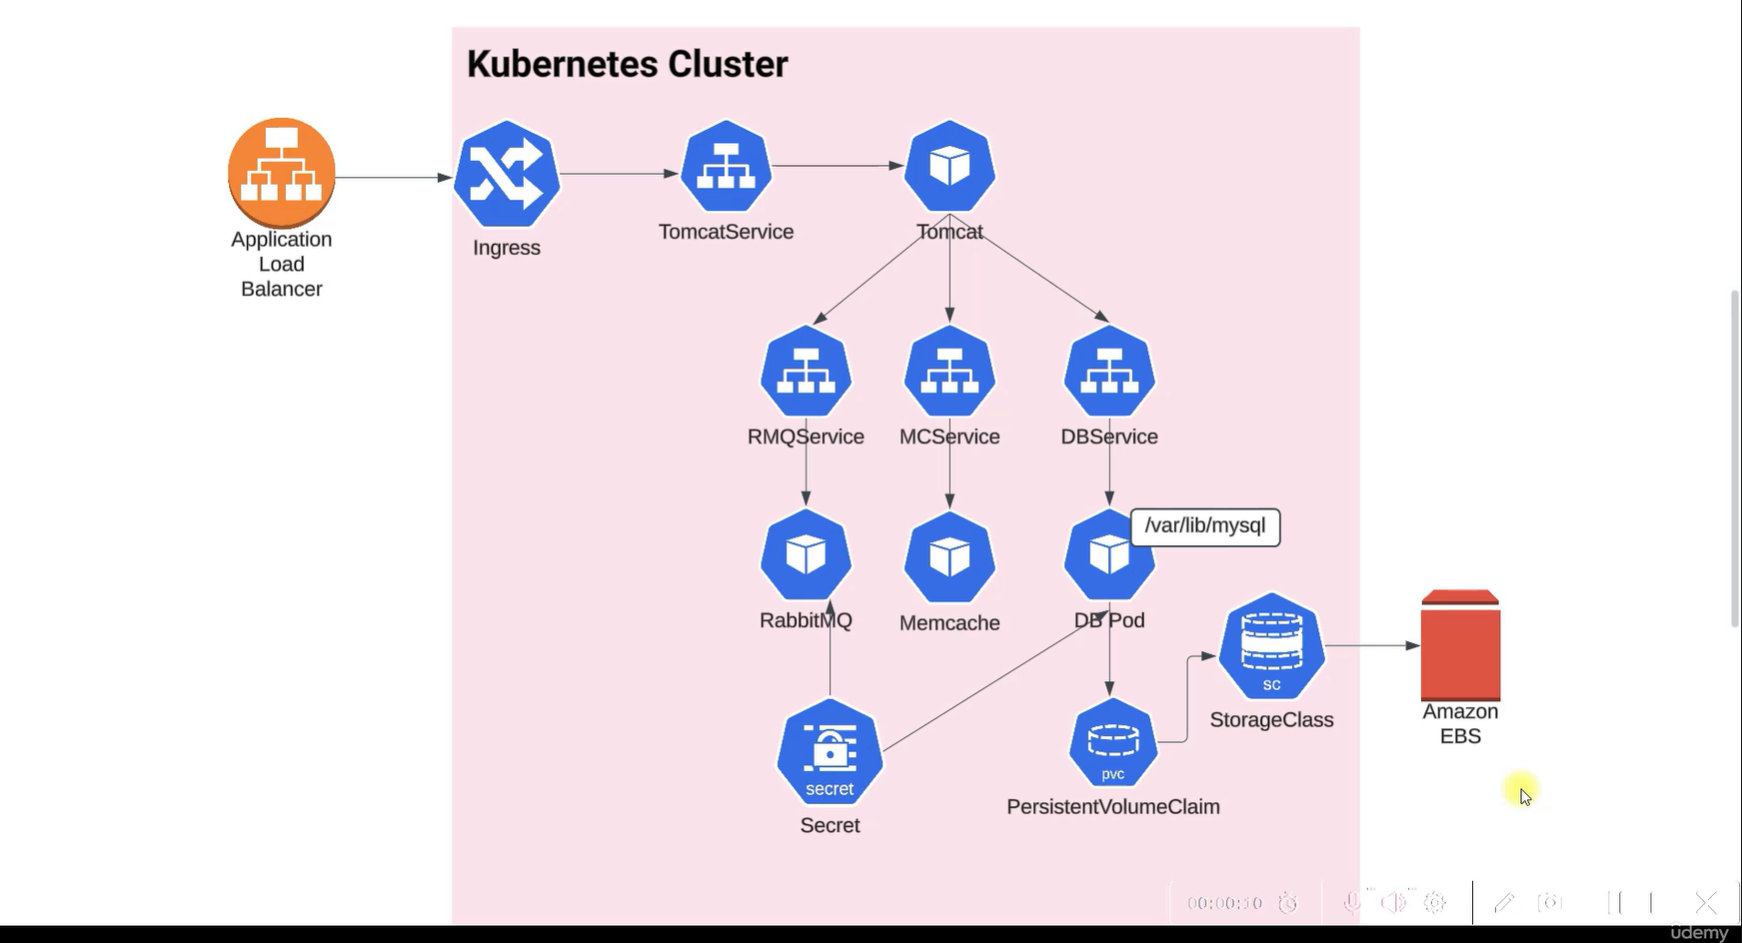
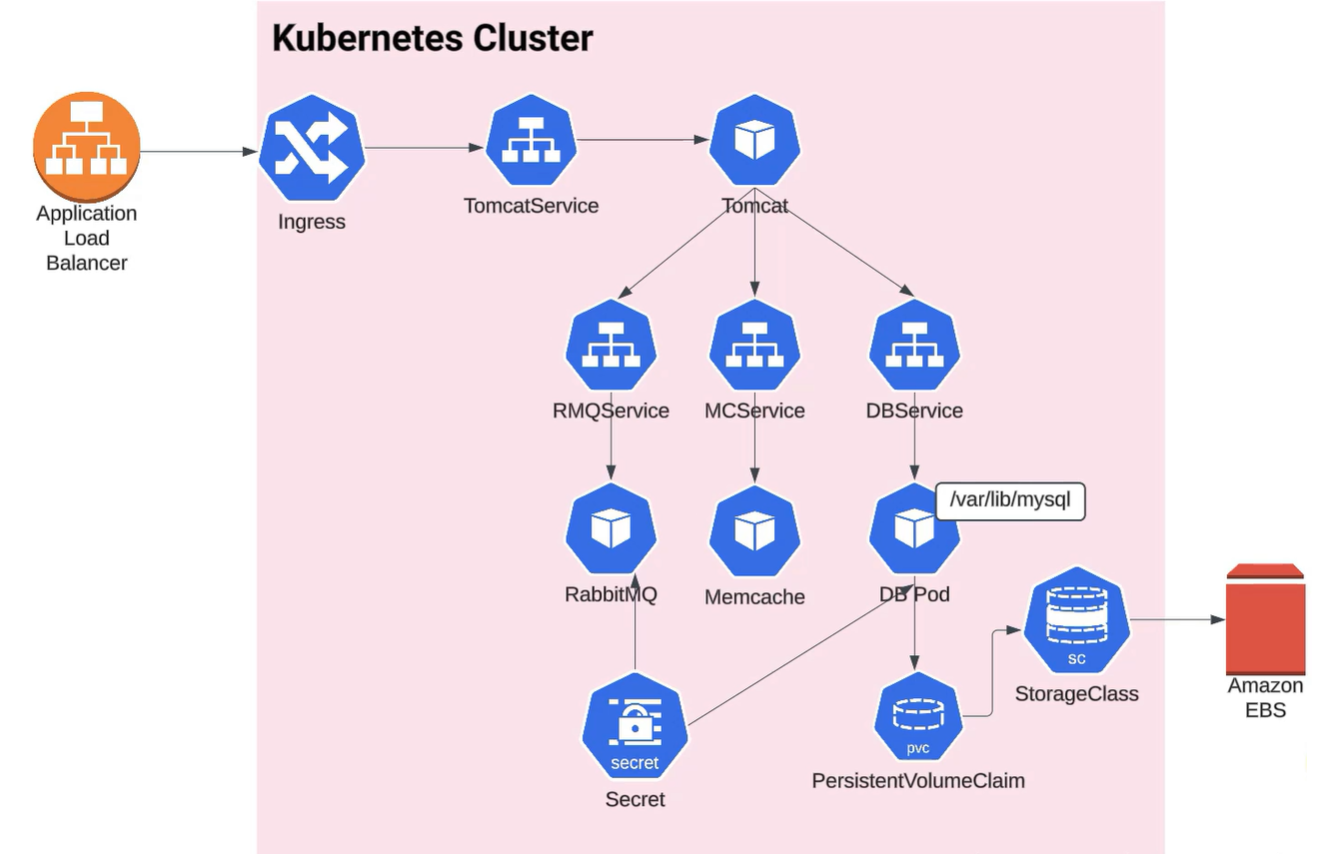
Refactor code structure for improved readability and maintainability

diff --git a/README.md b/README.md
@@ -15,22 +15,8 @@ This project demonstrates how to provision, configure, and manage a highly avail
 * S3 bucket for cluster state storage
 * Route53 for DNS management
 
-```
-                +----------------------+
-                |     Route53 DNS      |
-                +----------+-----------+
-                           |
-                  +--------v--------+
-                  |   K8s API Server |
-                  +--------+--------+
-                           |
-        +------------------+------------------+
-        |                                     |
-+-------v-------+                     +--------v-------+
-|  Worker Node  |                     |  Worker Node   |
-|   (Pod Apps)  |                     |   (Pod Apps)   |
-+---------------+                     +----------------+
-```
+![Overview](images/overview.png)
+
 ![Architecture](images/architecture.png)
 ## Prerequisites (for Ubuntu)
 ### Install Kops
